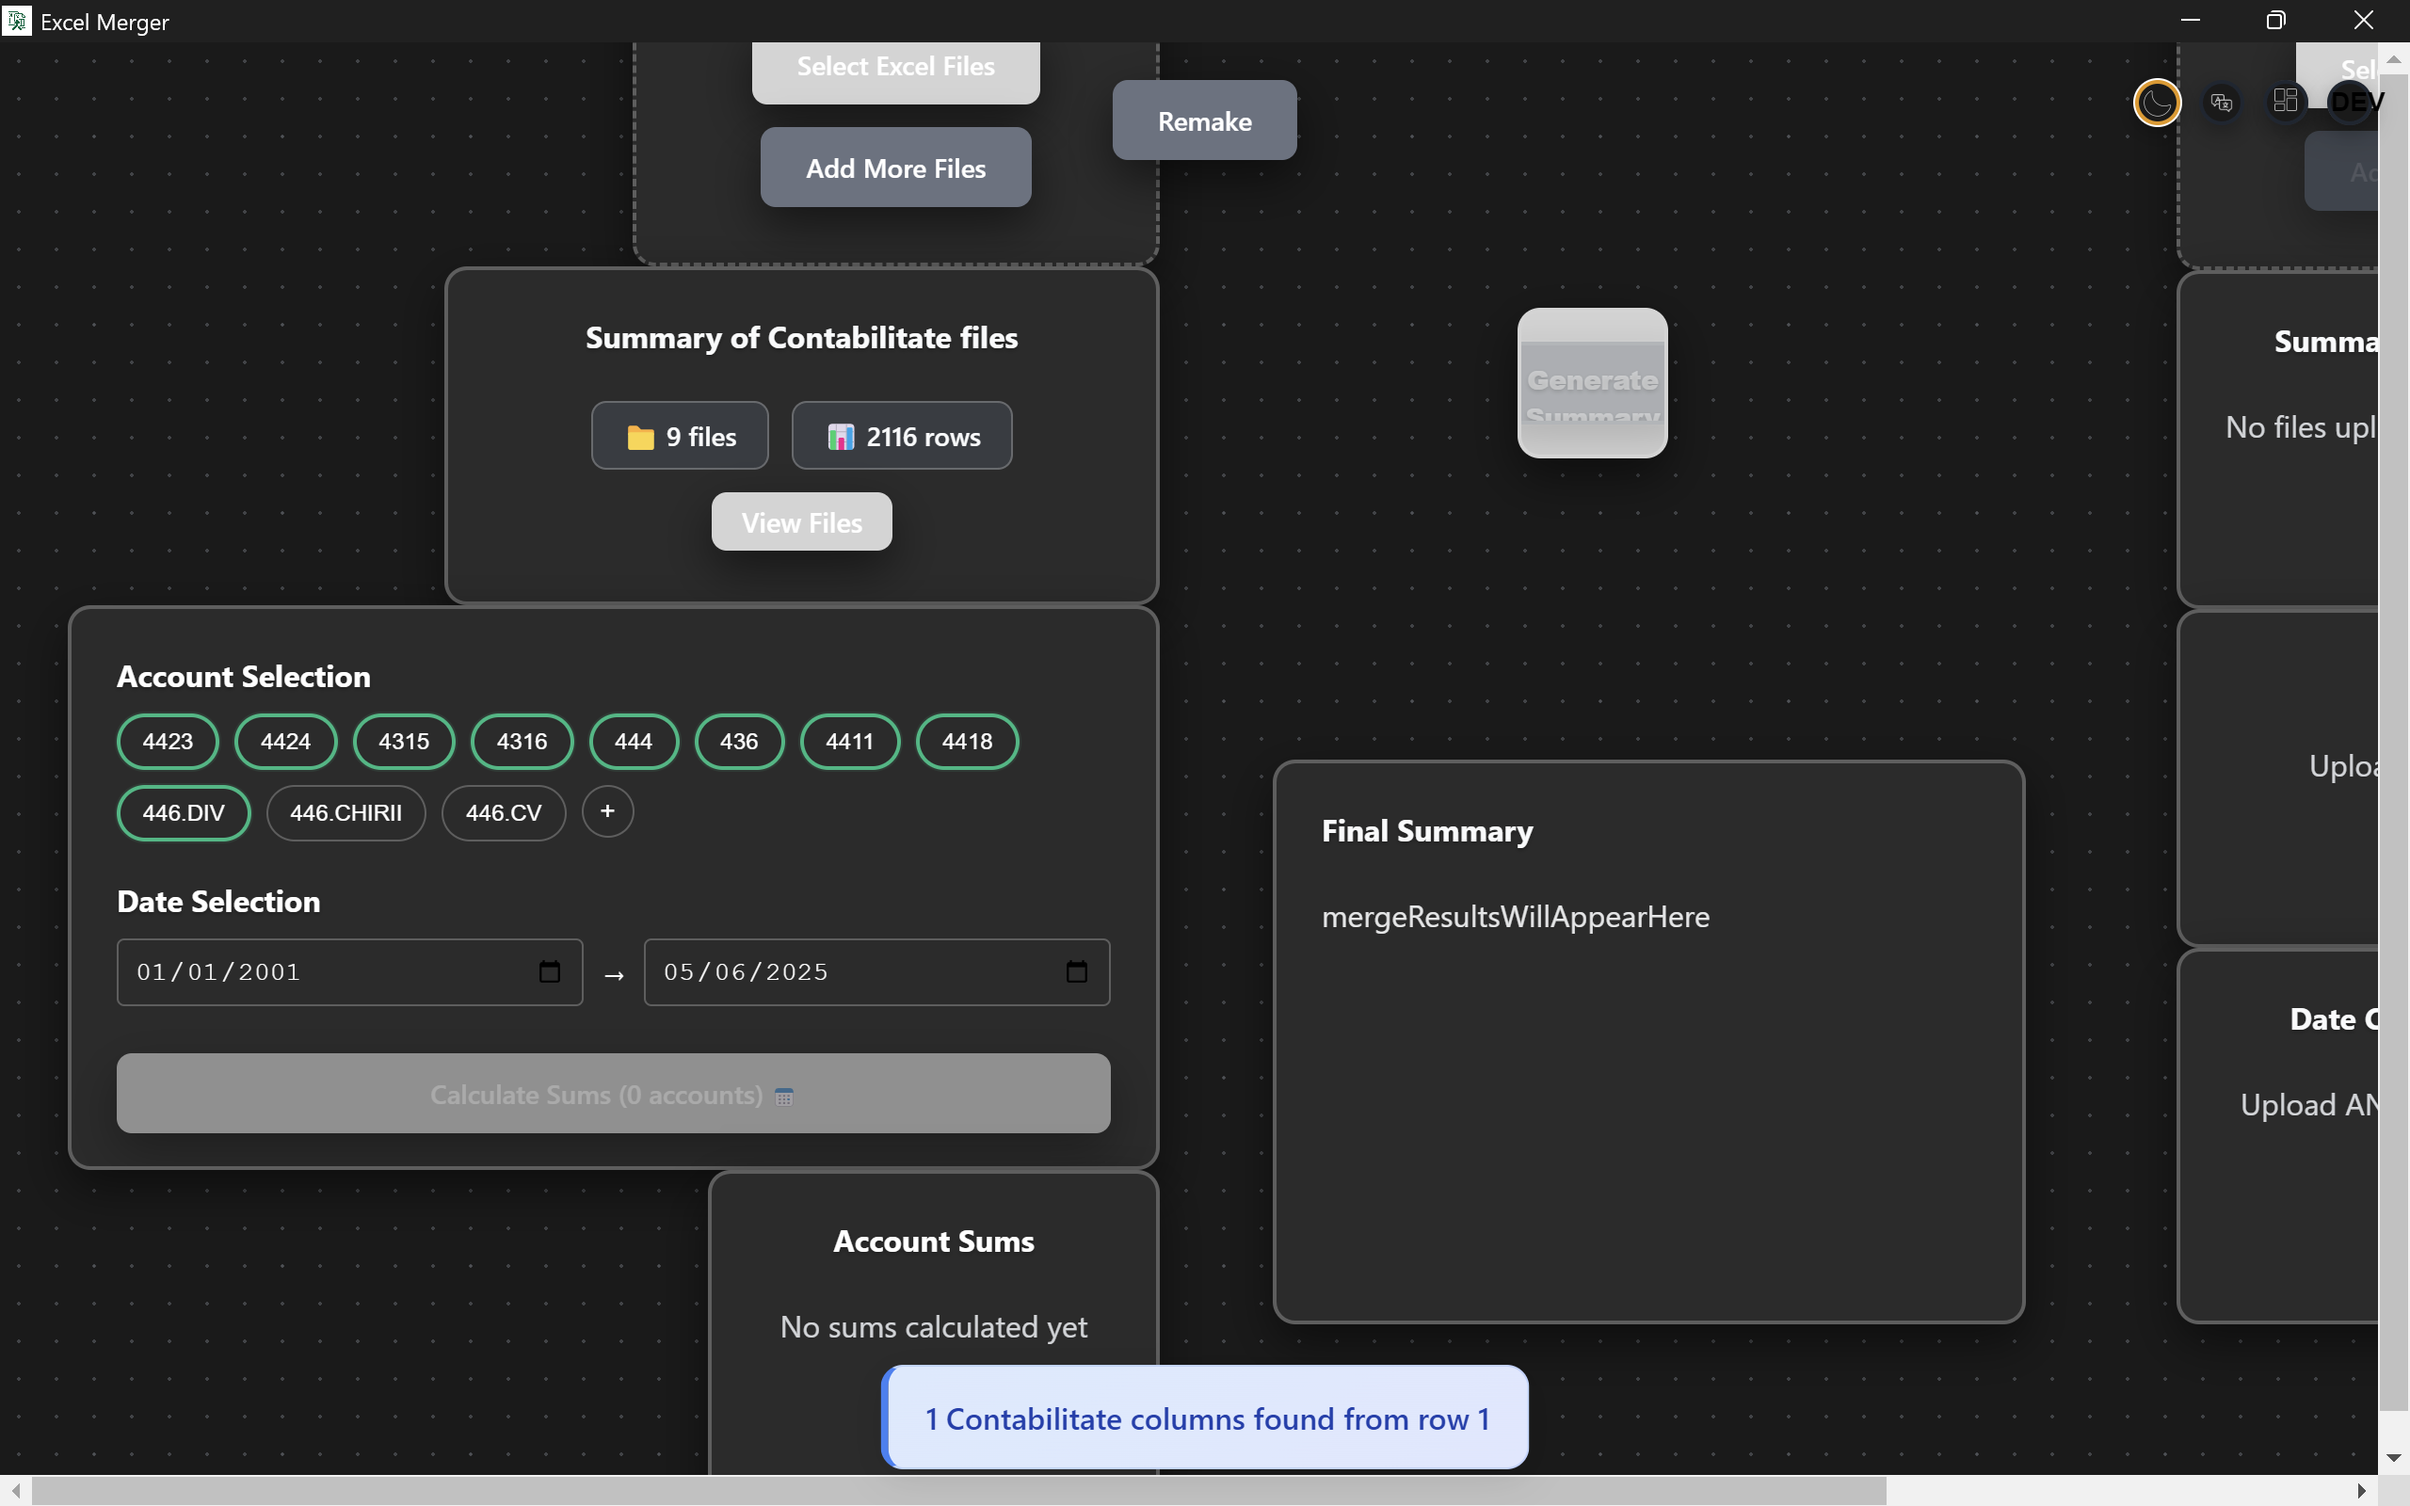
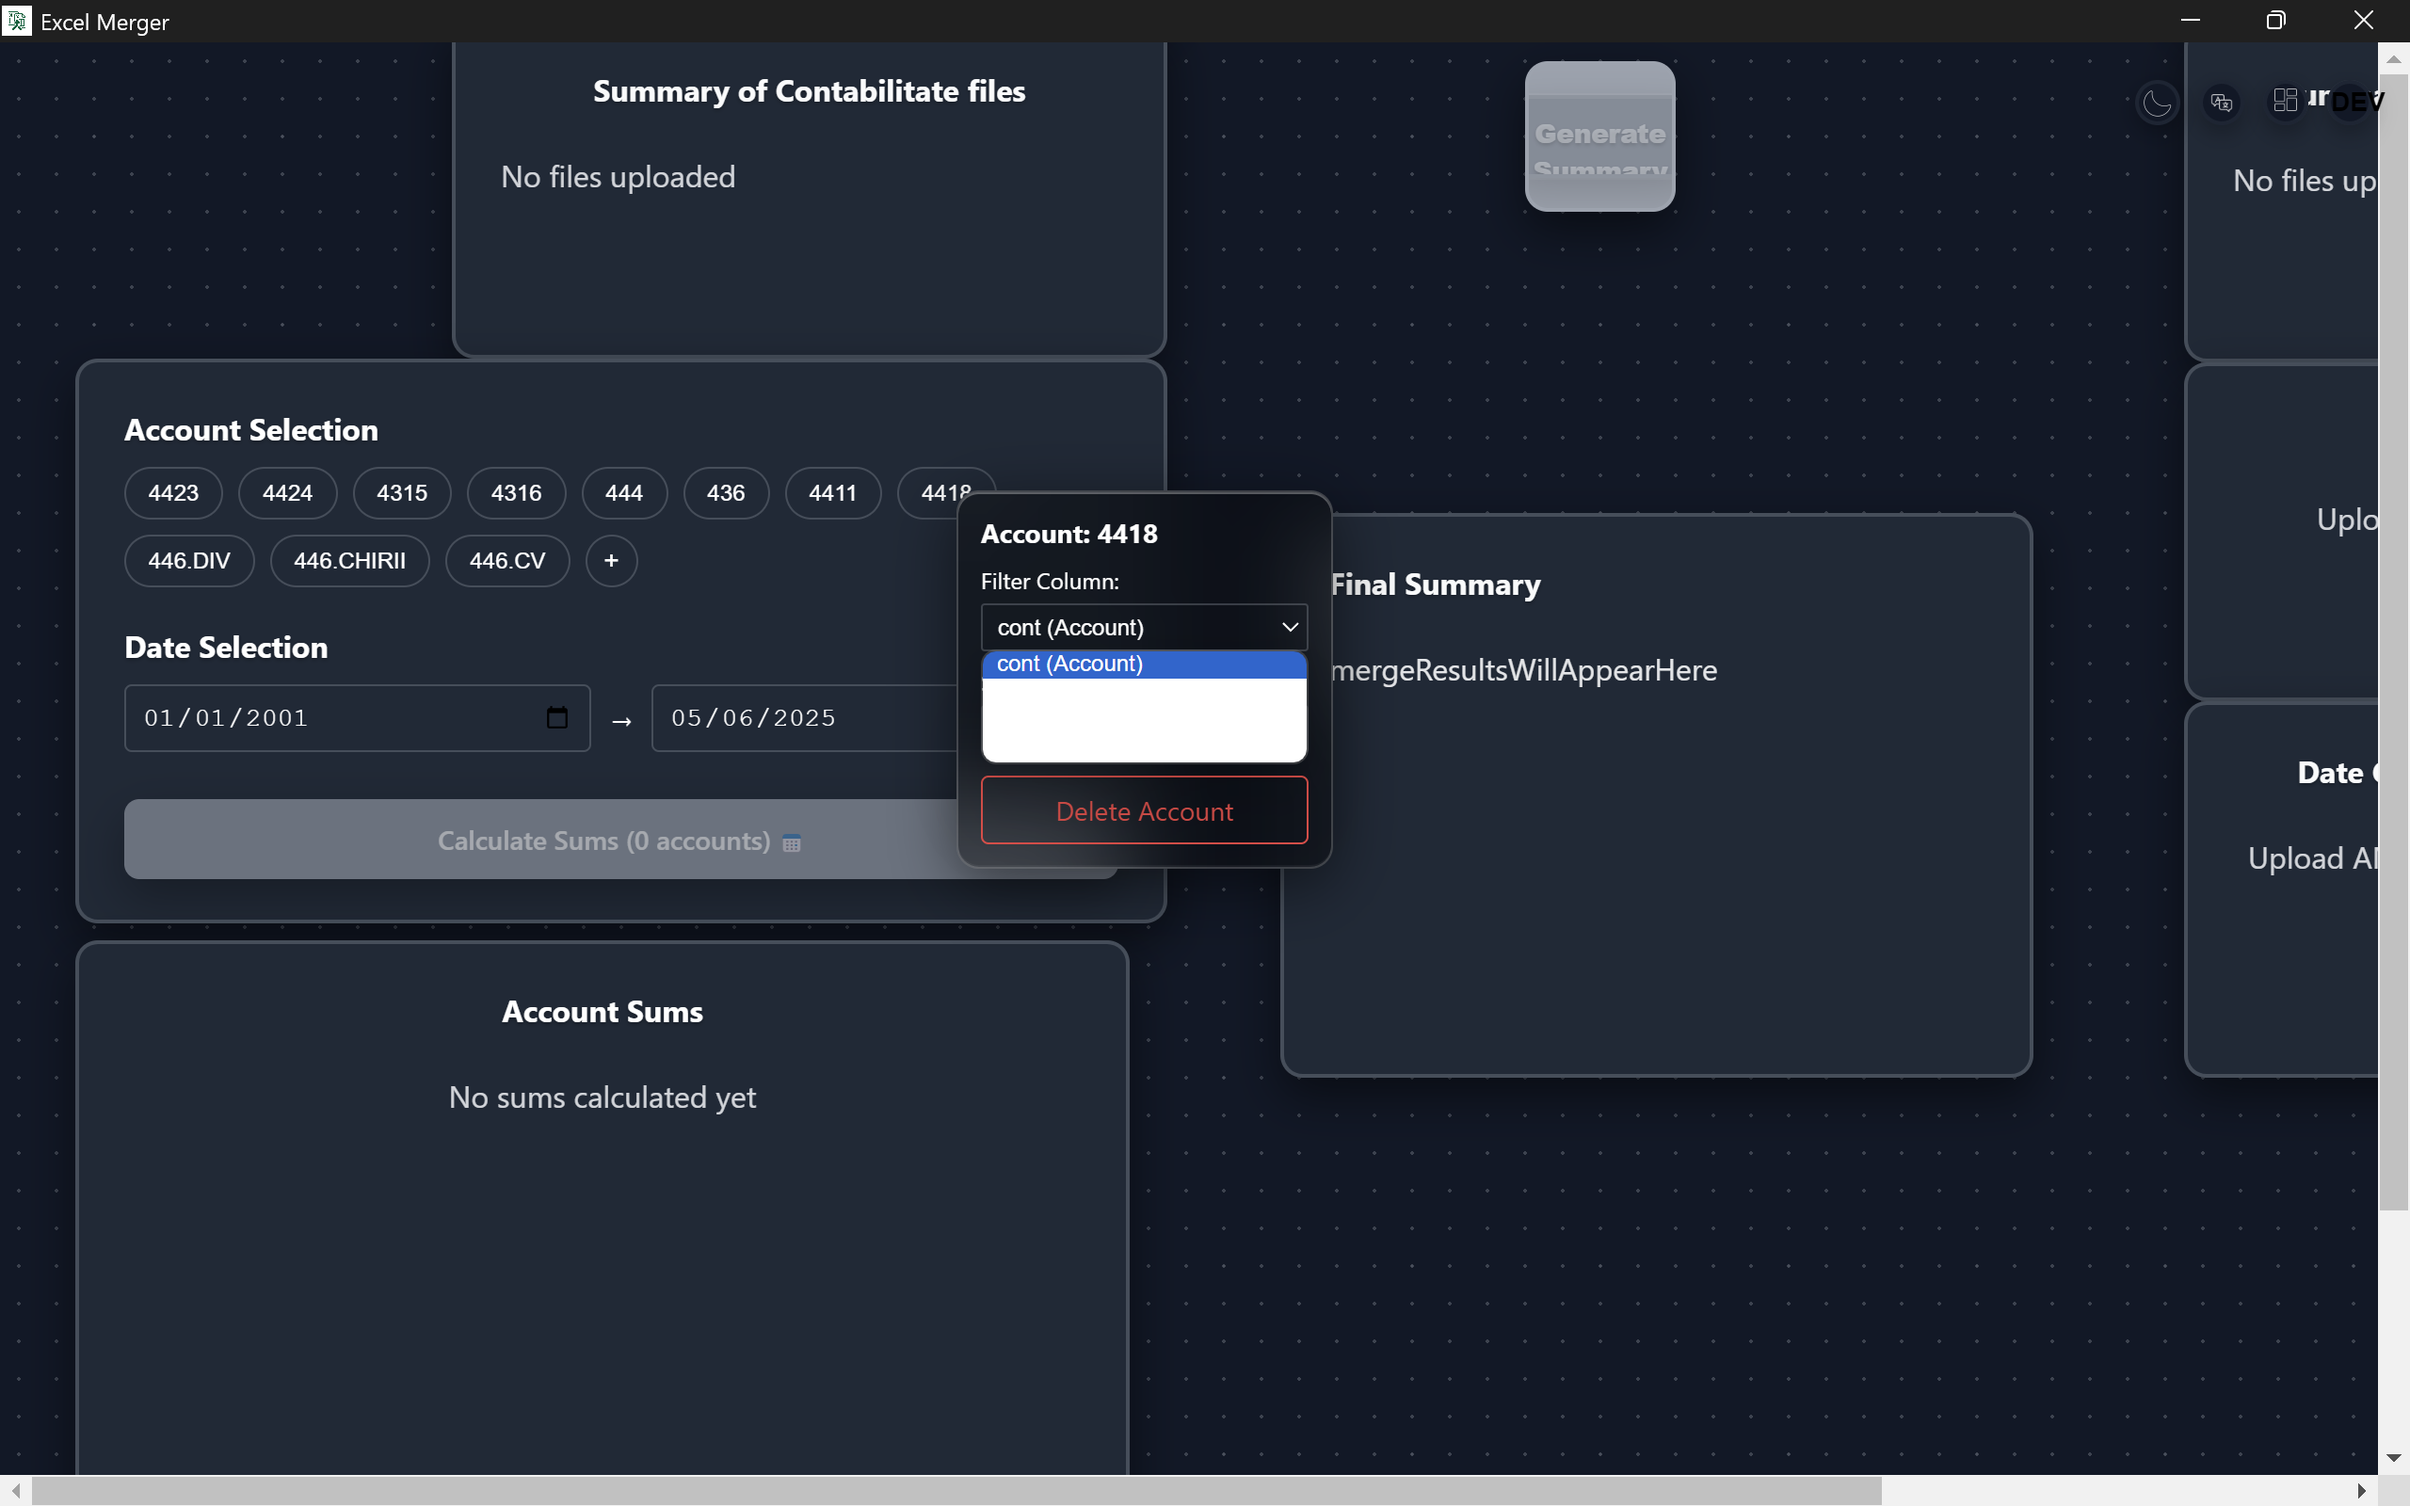
Fix dropdown visibility in context menu by adding higher z-index 🤖 Generated with [Claude Code](https://claude.ai/code) Co-Authored-By: Claude <noreply@anthropic.com>

diff --git a/src/App.js b/src/App.js
@@ -4043,7 +4043,9 @@ function App() {
                 backgroundColor: 'var(--theme-input-bg)',
                 color: 'var(--theme-text-color)',
                 border: '1px solid var(--theme-border-color)',
-                borderRadius: '2px'
+                borderRadius: '2px',
+                position: 'relative',
+                zIndex: 10001
               }}
             >
               <option value="cont">cont (Account)</option>
@@ -4070,7 +4072,9 @@ function App() {
                 backgroundColor: 'var(--theme-input-bg)',
                 color: 'var(--theme-text-color)',
                 border: '1px solid var(--theme-border-color)',
-                borderRadius: '2px'
+                borderRadius: '2px',
+                position: 'relative',
+                zIndex: 10001
               }}
             >
               <option value="suma_c">suma_c (Credit)</option>
